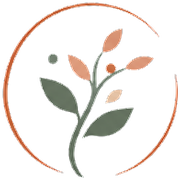
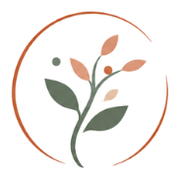
## Icône d'onglet sur fond blanc
L'icône de l'onglet a maintenant un fond blanc plein derrière le cercle et les feuilles de votre logo. Elle reste donc lisible même quand le navigateur est en mode sombre. La version de l'écran d'accueil iPhone a aussi le fond blanc.

J'ai vérifié que la nouvelle icône est bien en ligne. Si l'ancienne s'affiche encore, fermez puis rouvrez l'onglet.

- Next Action Items:
  - **Fichiers à télécharger**: Add your VAE and bilan PDF sheets and your diplomas so every download button works
  - **Vos réseaux sociaux**: Turn the LinkedIn, Facebook and Instagram circles into links to your real profiles
  - **Badge Qualiopi et CPF**: Show a Qualiopi mention and a CPF badge on each service page once you are certified
  - **Aperçu de partage**: Show your logo and a nice preview card when someone shares the site on LinkedIn or WhatsApp

Emergent-Commit-Key: 80bf59cc0f22deaa05c4d20aa436caecaa3d2b1c8826c73de9e43a726c91d6e1

diff --git a/frontend/src/index.html b/frontend/src/index.html
@@ -7,9 +7,9 @@
   <meta name="viewport" content="width=device-width, initial-scale=1">
   <meta name="description" content="Mévolia accompagne les organismes de formation, les entreprises et les particuliers dans la conception pédagogique, la Validation des Acquis de l'Expérience (VAE) et le bilan de compétences.">
   <meta name="theme-color" content="#FCF7F3">
-  <link rel="icon" type="image/png" sizes="192x192" href="favicon.png">
-  <link rel="icon" href="favicon.ico" sizes="any">
-  <link rel="apple-touch-icon" href="apple-touch-icon.png">
+  <link rel="icon" type="image/png" sizes="192x192" href="favicon.png?v=2">
+  <link rel="icon" href="favicon.ico?v=2" sizes="any">
+  <link rel="apple-touch-icon" href="apple-touch-icon.png?v=2">
   <link rel="preconnect" href="https://fonts.googleapis.com">
   <link rel="preconnect" href="https://fonts.gstatic.com" crossorigin>
   <link href="https://fonts.googleapis.com/css2?family=Lora:ital,wght@0,400;0,500;0,600;0,700;1,400;1,500&family=Inter:wght@300;400;500;600;700&display=swap" rel="stylesheet">
